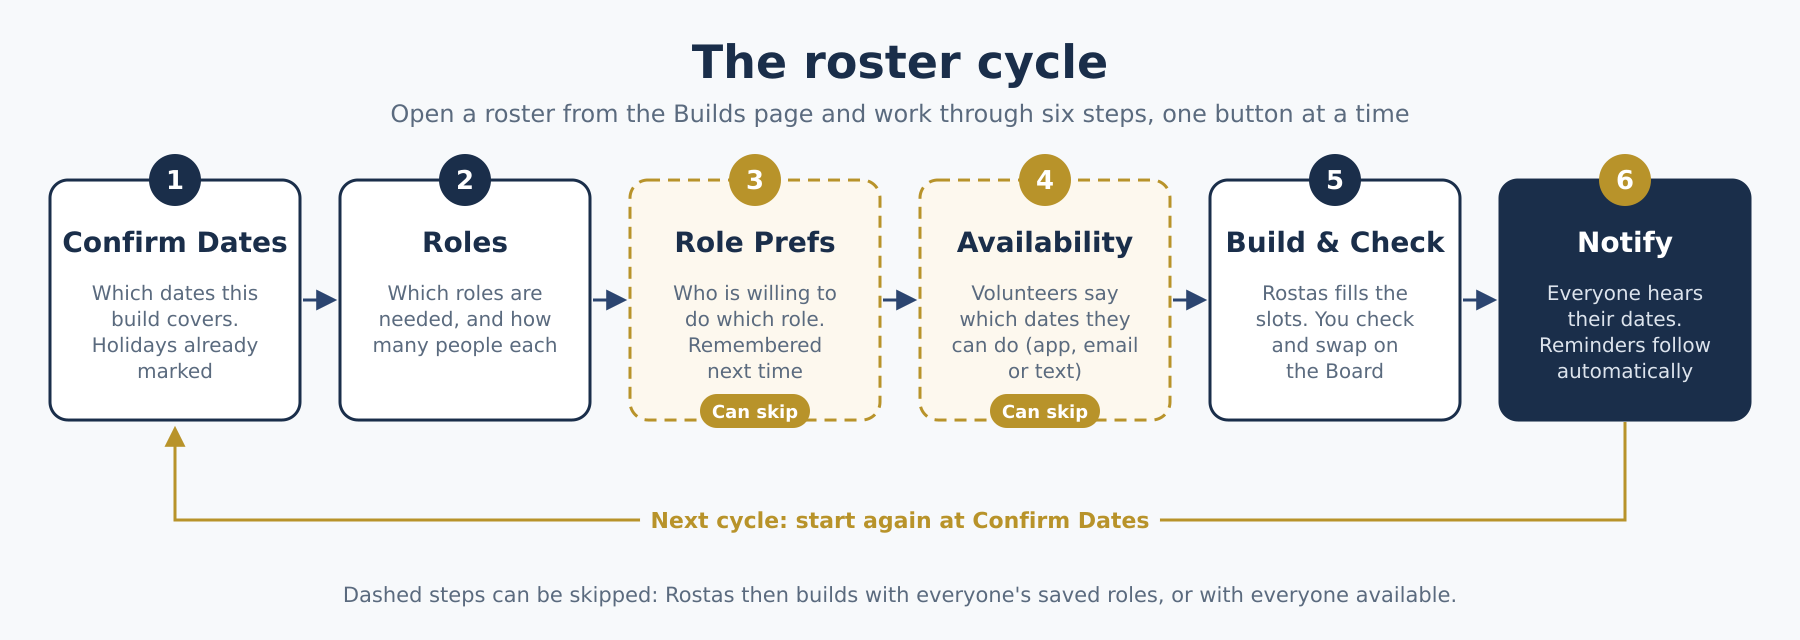
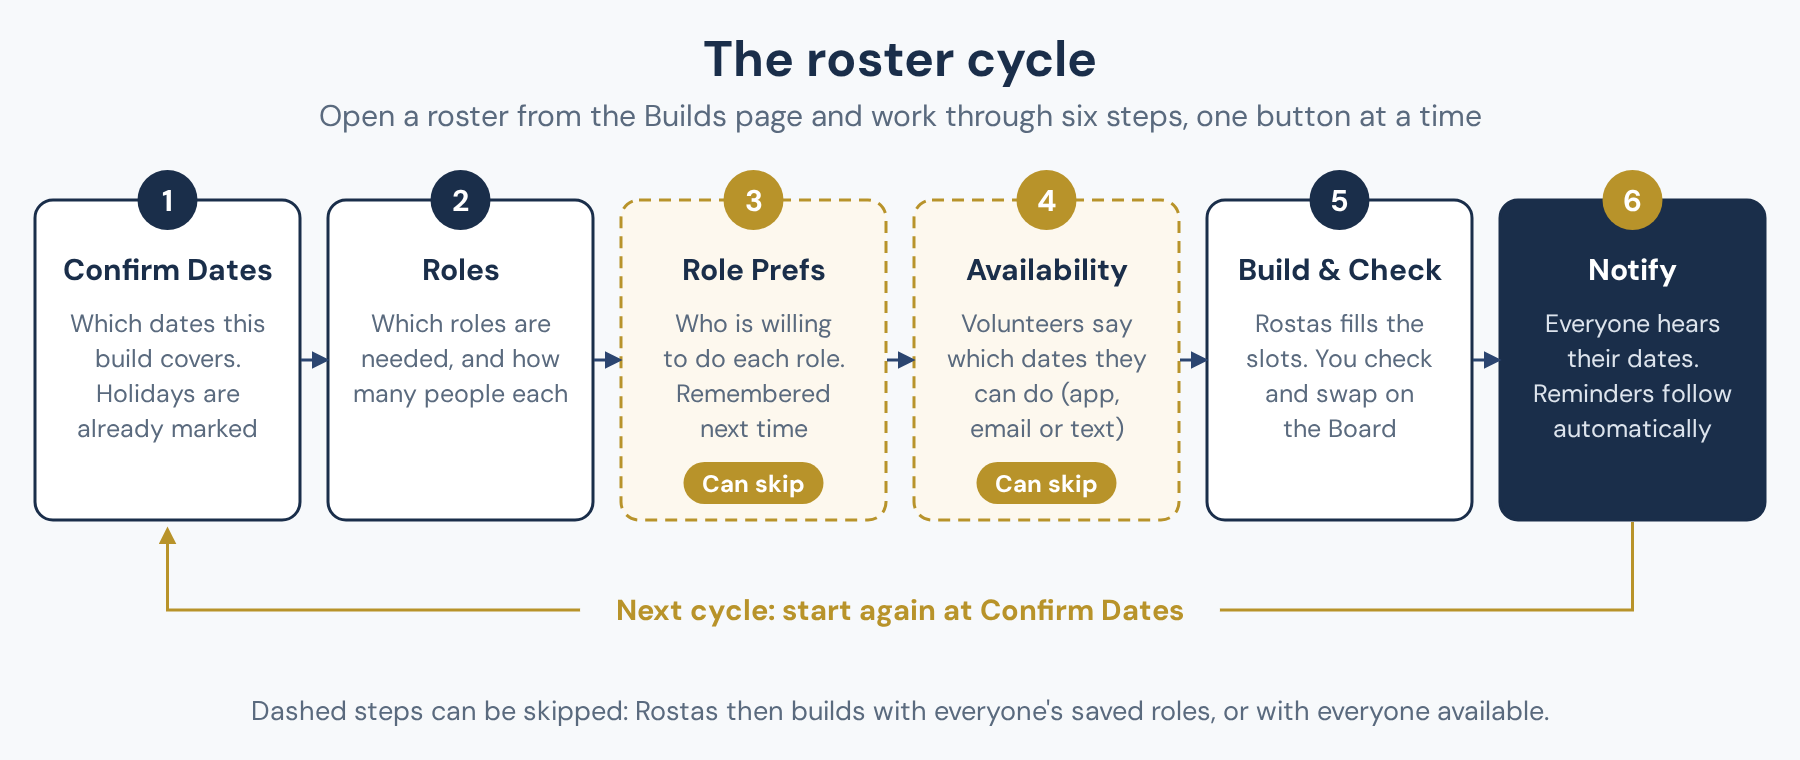
Guide: bigger text in the two flow charts
The smallest text in Getting started and The roster cycle was 19–20px
at 1800 wide, about 11px on a 14-inch screen. Both are redrawn with the
smallest text at 24–25px (about 14–15px on screen), lines rewrapped
to fit, and the charts made taller (980 and 760 px).

Checked by rendering both with headless Chrome. Not pushed.

Changed region(s): [[0.0, 0.2188, 0.9956, 0.8438], [0.1867, 0.0312, 0.8089, 0.1875], [0.1556, 0.9062, 0.8711, 0.9688]]

diff --git a/index.html b/index.html
@@ -1055,9 +1055,9 @@
     <strong>Allow 20–30 minutes for your first roster.</strong> Most of that is setting up each volunteer's profile, and Rostas keeps everything you set for every future build. After that, a roster cycle takes about 10 minutes, a little longer if many volunteers have joined or left since the last build.
   </div>
 
-  <!-- Drawn from "getting-started-flow.svg" (edit that, then re-export the PNG at 1800 px wide) -->
+  <!-- Drawn from "getting-started-flow.svg" (edit that, then re-export the PNG at 1800x980; see the export note inside the SVG) -->
   <figure>
-    <img src="getting-started-flow.png" alt="Getting started. 1A to 1D: set up the roster with the New Roster wizard, once for each roster: name, roles and season; Volunteers (connect Infoodle, Planning Center or a Google Sheet, or import Excel, CSV or phone contacts, or add a few); set up each volunteer (roles, how often, who they serve with, role links, pressing › for the next one; no roles means left out of the build); then review and create. 2A to 2F: run the roster cycle: Confirm Dates, Roles, Role Prefs (optional), Availability (optional), Build and Check, Notify. Next time, start at 2A: only volunteers who are new since the last build need setting up." class="screenshot" width="1800" height="800" loading="lazy" decoding="async">
+    <img src="getting-started-flow.png" alt="Getting started. 1A to 1D: set up the roster with the New Roster wizard, once for each roster: name, roles and season; Volunteers (connect Infoodle, Planning Center or a Google Sheet, or import Excel, CSV or phone contacts, or add a few); set up each volunteer (roles, how often, who they serve with, role links, pressing › for the next one; no roles means left out of the build); then review and create. 2A to 2F: run the roster cycle: Confirm Dates, Roles, Role Prefs (optional), Availability (optional), Build and Check, Notify. Next time, start at 2A: only volunteers who are new since the last build need setting up." class="screenshot" width="1800" height="980" loading="lazy" decoding="async">
     <figcaption>Two jobs for your first roster, lettered to match the steps below. Every build after that starts at 2A.</figcaption>
   </figure>
 
@@ -1202,7 +1202,7 @@
 
   <!-- Drawn from "roster-lifecycle.svg" (edit that, then re-export the PNG at 1800 px wide) -->
   <figure>
-    <img src="roster-lifecycle.png" alt="The roster cycle: Confirm Dates, Roles, Role Prefs, Availability, Build &amp; Check, Notify, then back to Confirm Dates for the next cycle. Role Prefs and Availability can be skipped." class="screenshot" width="1800" height="640">
+    <img src="roster-lifecycle.png" alt="The roster cycle: Confirm Dates, Roles, Role Prefs, Availability, Build &amp; Check, Notify, then back to Confirm Dates for the next cycle. Role Prefs and Availability can be skipped." class="screenshot" width="1800" height="760">
     <figcaption>The six-step roster cycle. Each step is one button on the roster's page; the dashed steps can be skipped.</figcaption>
   </figure>
 
